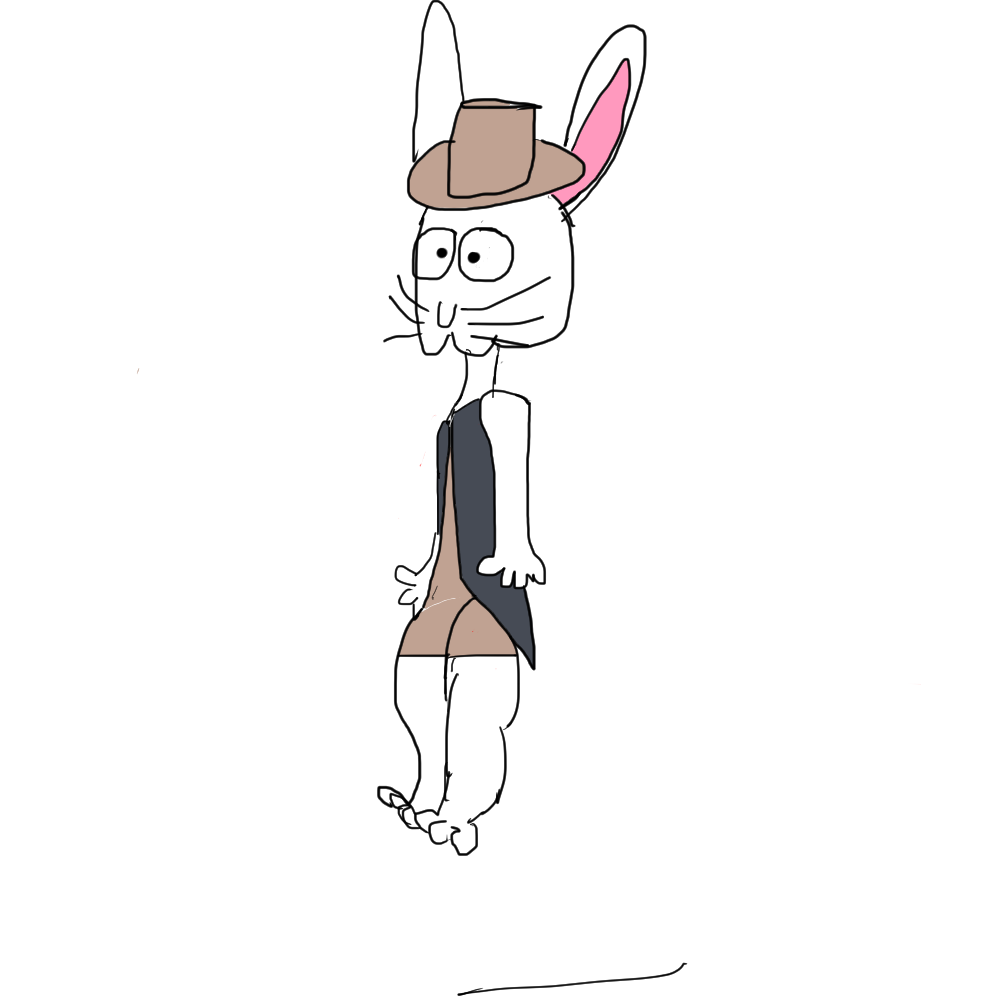
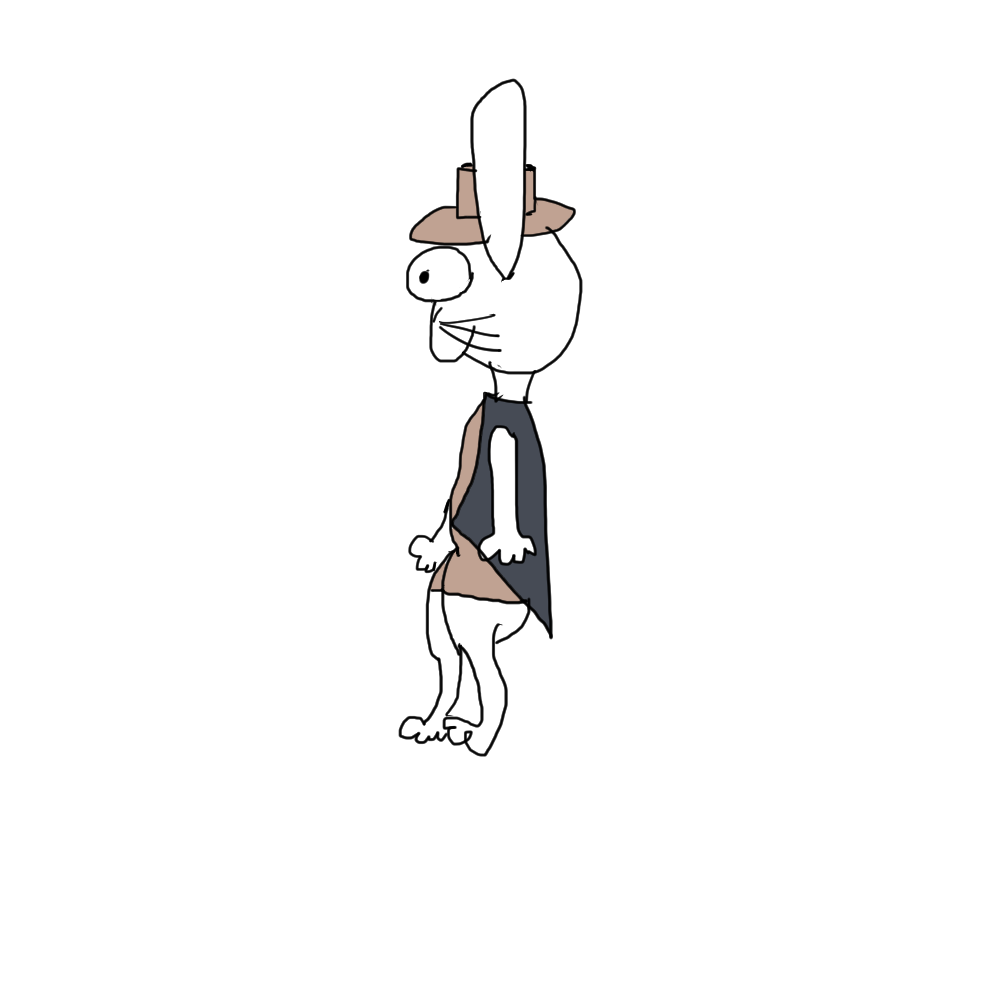
Add rabbit animation to Title screen

Changed region(s): [[0.372, 0.0, 0.651, 0.868], [0.651, 0.961, 0.682, 0.992], [0.465, 0.992, 0.496, 1.0]]

diff --git a/src/MainApplication.java b/src/MainApplication.java
@@ -23,12 +23,21 @@ public class MainApplication extends JFrame {
     private void titleScreen() {
 
         ImagePanel panel = new ImagePanel("resource/title_text.png");
+        ImageIcon [] icons = new ImageIcon[8];
+        for (int i = 0; i < 8; i++)
+            icons[i] = new ImageIcon("resource/idle" + i + ".png");
+        JLabel rabbit = new JLabel();
+        rabbit.setBounds(getWidth(), getHeight(), icons[0].getIconWidth(), icons[0].getIconHeight());
+        panel.add(rabbit);
         add(panel);
         pack();
 
-        // TODO rabbit animation
-        try { Thread.sleep(1000); }
-        catch (InterruptedException e) { }
+        for (ImageIcon icon : icons)
+            try {
+                rabbit.setIcon(icon);
+                Thread.sleep(300);
+            }
+            catch (InterruptedException e) { }
 
         remove(panel);
         panel = new ImagePanel("resource/title_house.png");
@@ -36,7 +45,7 @@ public class MainApplication extends JFrame {
         panel.add(quitButton());
         add(panel);
         pack();
-        $("html").css("cursor: url('cursor url with protocol'), auto");
+
     }
 
     private JButton playButton() {
